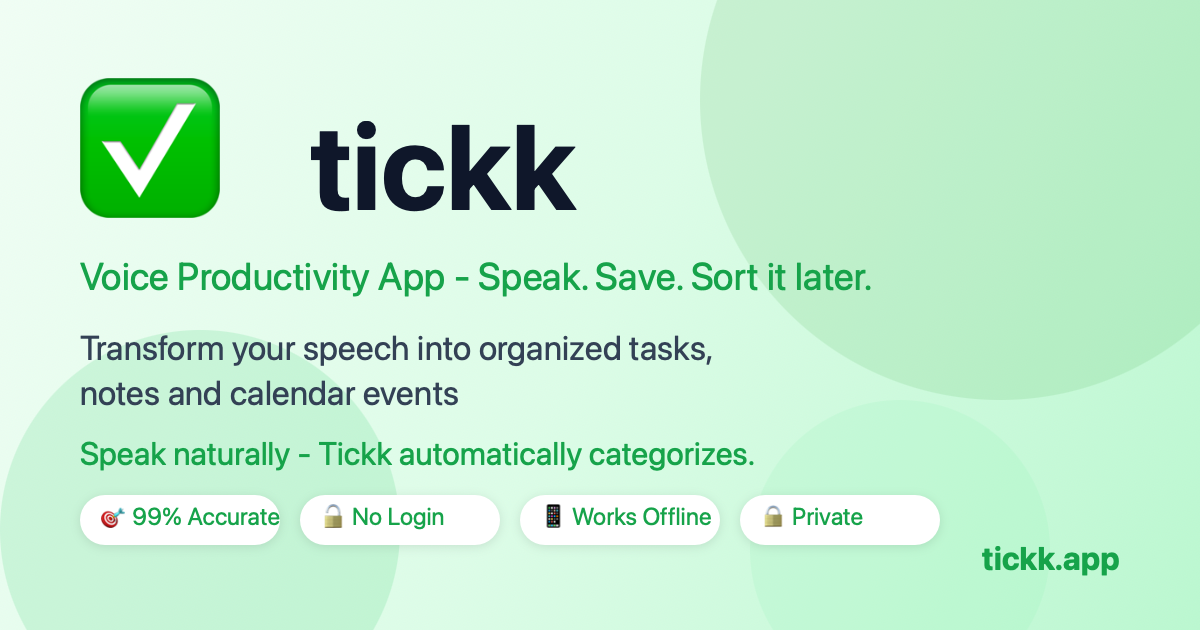
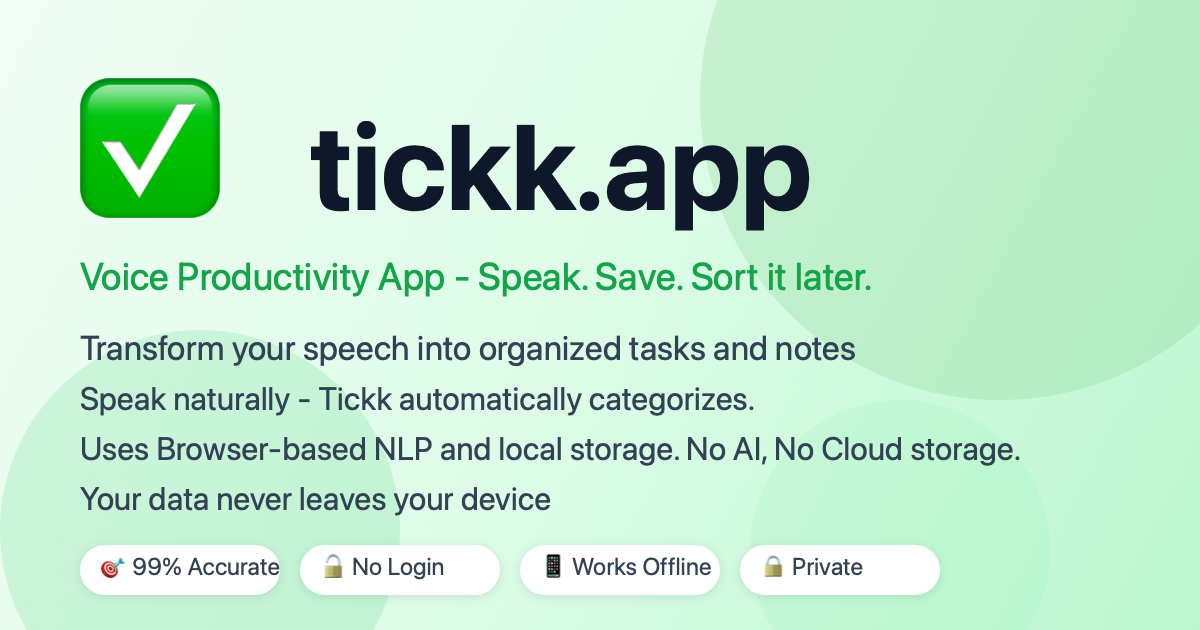
Update social media cards with NLP and privacy messaging
- Add browser-based NLP and local storage messaging
- Emphasize 'No AI, No Cloud storage' privacy features
- Update tickk branding to tickk.app
- Improve card layout and spacing
- Change badge text to black for better readability
- Update both OG and Twitter card images

diff --git a/public/tickk_cards_generator.html b/public/tickk_cards_generator.html
@@ -162,7 +162,7 @@
             // App name
             ctx.font = 'bold 120px -apple-system, system-ui, sans-serif';
             ctx.fillStyle = '#0f172a';
-            ctx.fillText('tickk', 310, 210);
+            ctx.fillText('tickk.app', 310, 210);
             
             // Tagline with slogan
             ctx.font = '38px -apple-system, system-ui, sans-serif';
@@ -172,13 +172,16 @@
             // Main description line 1
             ctx.font = '34px -apple-system, system-ui, sans-serif';
             ctx.fillStyle = '#334155';
-            ctx.fillText('Transform your speech into organized tasks,', 80, 360);
-            ctx.fillText('notes and calendar events', 80, 405);
+            ctx.fillText('Transform your speech into organized tasks and notes', 80, 360);
             
-            // New line about automatic categorization
+            // Feature line about automatic categorization
             ctx.font = '32px -apple-system, system-ui, sans-serif';
-            ctx.fillStyle = '#16a34a';
-            ctx.fillText('Speak naturally - Tickk automatically categorizes.', 80, 465);
+            ctx.fillStyle = '#334155';
+            ctx.fillText('Speak naturally - Tickk automatically categorizes.', 80, 410);
+            
+            // New line about NLP and No AI - split into two lines
+            ctx.fillText('Uses Browser-based NLP and local storage. No AI, No Cloud storage.', 80, 460);
+            ctx.fillText('Your data never leaves your device', 80, 510);
             
             // Feature badges
             const features = [
@@ -189,7 +192,7 @@
             ];
             
             let xPos = 80;
-            const yPos = height - 100;
+            const yPos = height - 50;
             
             features.forEach((feature, index) => {
                 // Badge background
@@ -206,18 +209,12 @@
                 
                 // Badge text
                 ctx.font = '24px -apple-system, system-ui, sans-serif';
-                ctx.fillStyle = '#16a34a';
+                ctx.fillStyle = '#334155';
                 ctx.textAlign = 'left';
                 ctx.fillText(`${feature.icon} ${feature.text}`, xPos + 20, yPos - 5);
                 
                 xPos += 220;
             });
-            
-            // URL
-            ctx.font = 'bold 32px -apple-system, system-ui, sans-serif';
-            ctx.fillStyle = '#16a34a';
-            ctx.textAlign = 'right';
-            ctx.fillText('tickk.app', width - 80, height - 60);
         }
         
         // Draw both cards
